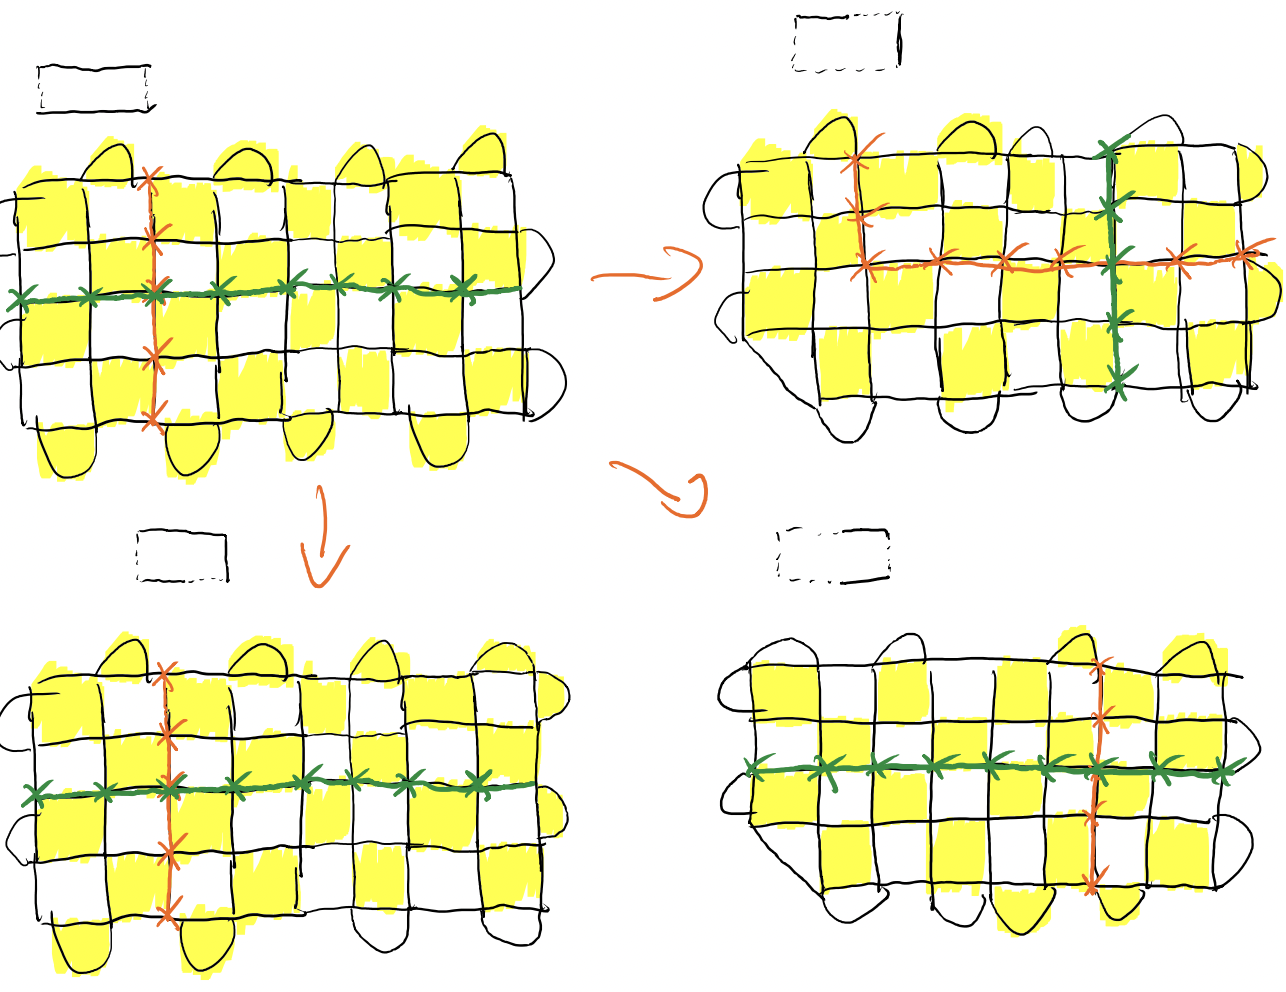
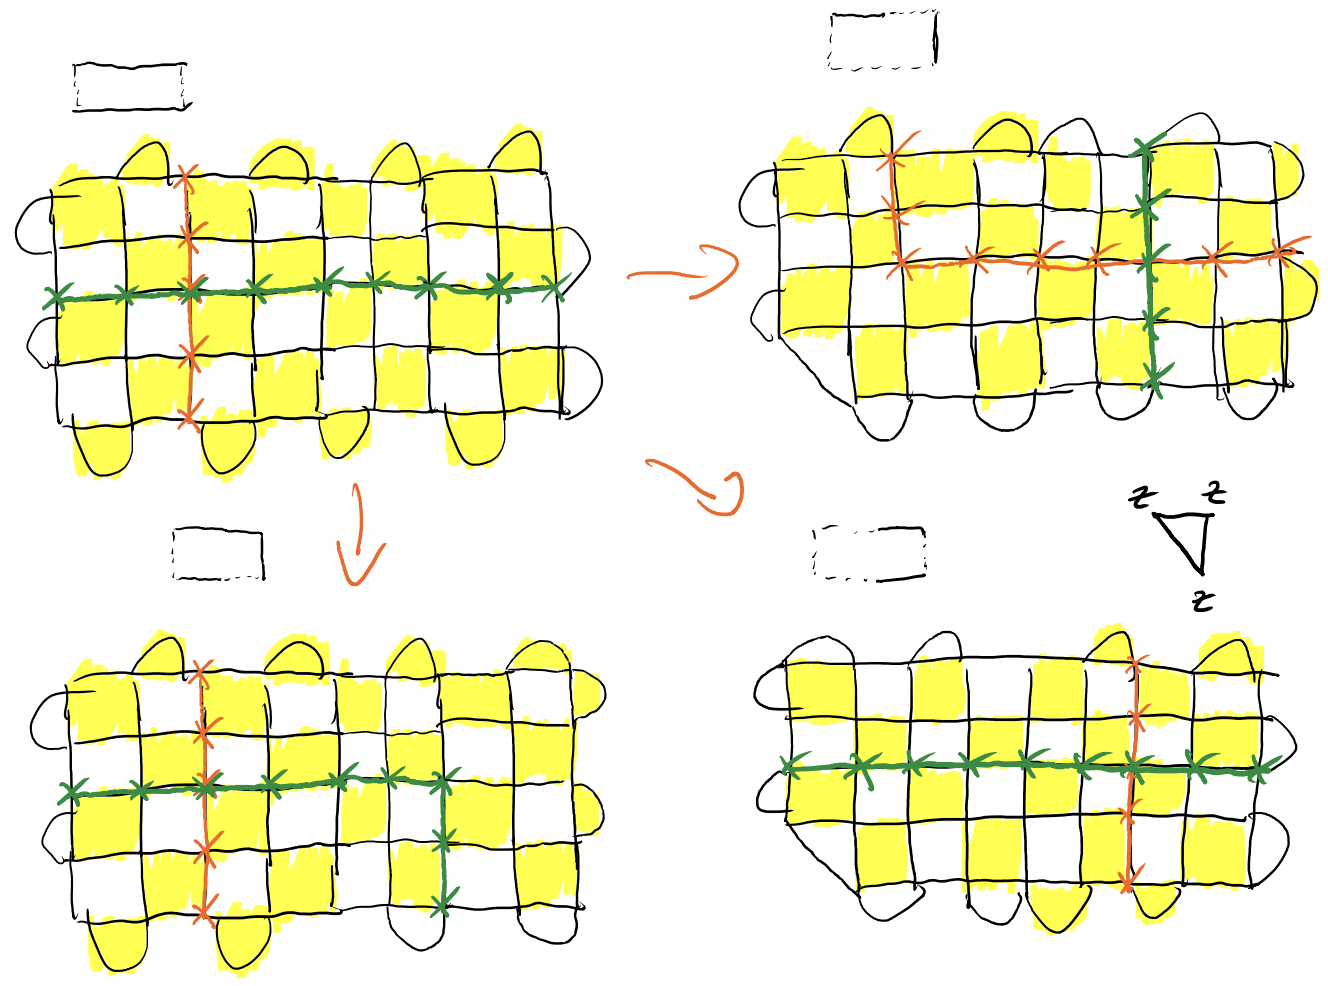
code review

diff --git a/demonstrations_v2/tutorial_lattice_surgery/demo.py b/demonstrations_v2/tutorial_lattice_surgery/demo.py
@@ -1,12 +1,13 @@
 r"""
 
-Lattice Surgery
-===============
+Introducing Lattice Surgery
+===========================
 
-Lattice surgery is a way to fault-tolerantly perform operations on two-dimensional platforms
-with local physical connectivity. It enables lower spatial overheads for topological quantum
-error correction codes such as surface codes or color codes by introducing discontinuous code operations: lattice merging and splitting.
-In this demo, we are going to see how lattice merging and splitting
+Lattice surgery is a way to fault-tolerantly perform operations on two-dimensional quantum computers
+with local physical connectivity. Its introduction improved spatial overheads in topological quantum
+error correction codes such as surface codes by replacing continuous code operations 
+with discontinuous ones: lattice spliting and merging.
+In this demo, we are going to see how these operations
 enable parity measurements of arbitrary Pauli operators, which unlock universal fault
 tolerant quantum computing.
 
@@ -15,11 +16,15 @@ tolerant quantum computing.
     :width: 50%
     :target: javascript:void(0)
 
+For self-consistency, we are going to briefly recap the basic concepts of the surface code and explain how `Pauli product measurements <https://pennylane.ai/compilation/pauli-product-measurement>`__ are the sufficient 
+for universal computing. We are then going to explain how to perform such 
+`homological measurements <https://arxiv.org/abs/2410.02753>`__ using lattice splitting and merging.
+
 Surface code quantum computing
 ------------------------------
 
-Topological quantum error correction codes like the surface code [#surfacecode]_ protect quantum information of logical qubits by
-ensuring the underlying physical qubits are kept in the code space, defined by the :math:`+1` eigenspace of a set of stabilizer measurements.
+Topological quantum error correction codes like the surface code [#surfacecode]_ protect quantum information stored in logical qubits by
+ensuring the underlying physical qubits are kept in the code space, defined by the :math:`+1` eigenspace of a set of :doc:`stabilizer measurements <demos/tutorial_stabilizer_codes>`.
 A logical qubit is then represented by a patch of physical qubits, called data qubits, on a square lattice like so:
 
 .. figure:: ../_static/demonstration_assets/lattice_surgery/surface_code_qubit1.png
@@ -32,7 +37,7 @@ On yellow surfaces, we continually measure X stabilizers, which simply are the :
 on the four data qubits of the corners. Similarly, Z stabilizers are measured on white surfaces. 
 These stabilizer measurements are not performed directly on the data qubits, but via another kind of qubit that sits at the center of each square surface
 as well as the center of each arch (not shown here, see below). 
-These extra qubits are sometimes called measurement qubits or syndrome qubits and the measurement is performed by entangling the data qubits with the syndrome qubit and measuring it in the corresponding basis (see Fig. 1 in [#surfacecode]_).
+These extra qubits are sometimes called measurement qubits or syndrome qubits and the measurement is performed by entangling the data qubits with the syndrome qubit and measuring it (see Fig. 1 in [#surfacecode]_).
 
 Note that this representation of a qubit is in the so-called rotated surface code due to its :math:`45^\circ` rotation with respect to the original planar surface code.
 Here we indicate the underlying data and syndrome qubits with black and red dots, respectively. 
@@ -44,9 +49,9 @@ nearest neighbor qubits are physically connected and can perform universal gates
     :width: 50%
     :target: javascript:void(0)
 
-One such :math:`d \times d` patch represents a logical qubit. An important feature is that we sides with X arches and Z arches,
+One such :math:`d \times d` patch represents a logical qubit. An important feature is that we have sides with X arches and Z arches,
 as this enables the error-corrected encoding of the qubit. Note that the edge with X arches is called a Z edge, because measuring along that edge
-corresponds to a logical Z operator, i.e. connecting the two sides with Z arches (more on logical X and Z operators that define the qubit further below).
+corresponds to a logical Z operator (more on logical X and Z operators that define the qubit further below).
 
 We are interested in performing `logical` operations like a CNOT gate between two such patches that represent a logical qubit, each.
 The most straight-forward way to compute a logical CNOT is by performing physical CNOT gates between the data qubits
@@ -64,8 +69,8 @@ a concept commonly encountered in algebraic topology.
 In this setting, qubits are encoded by defects in the code, and operations via continuous deformations of the code.
 However, defect based qubits suffer from requiring significantly more physical qubits per logical qubit.
 
-This is where lattice surgery [#latticesurgery]_ comes into play, as it has been shown to enable error-corrected logical operations
-with significantly lower space resources with comparable time requirements [#Fowler]_ [#Litinski]_ [#Chamberland]_. The fundamental operations in lattice
+This is where lattice surgery [#latticesurgery]_ comes into play: It has been shown to enable error-corrected logical operations
+with significantly lower space overhead and comparable time requirements [#Fowler]_ [#Litinski]_ [#Chamberland]_. The fundamental operations in lattice
 surgery are discontinuous deformations of the lattice, in particular lattice merging and lattice splitting, common in geometric topology.
 
 Universal quantum computing with Pauli product measurements
@@ -84,8 +89,8 @@ The gist of it is that `Pauli product rotations <https://pennylane.ai/compilatio
     :width: 50%
     :target: javascript:void(0)
 
-for arbitrary :class:`Pauli words <~.pauli.PauliWord>` :math:`P`
-with Clifford and non-Clifford angles :math:`\theta \in \{k \tfrac{\pi}{4} | k \in \mathbb{Z} \}` cover the `(Clifford + T) <https://pennylane.ai/compilation/clifford-t-gate-set>`__ gate set, and thus allow for universal quantum computing.
+for arbitrary Pauli words :math:`P`
+with Clifford and non-Clifford angles :math:`\theta \in \{(2k+1) \tfrac{\pi}{4} | k \in \mathbb{Z} \}` reproduce the `(Clifford + T) <https://pennylane.ai/compilation/clifford-t-gate-set>`__ gate set, and thus allow for universal quantum computing.
 These PPRs can be directly executed using PPMs in the following way, so all we need to show is that the lattice surgery based quantum computer can perform arbitrary PPMs. Typically, this involves an auxiliary qubit in a specific state.
 Clifford angles that are odd multiples of :math:`\frac{\pi}{2}` can be performed with an auxiliary qubit in :math:`|0\rangle` like so:
 
@@ -95,7 +100,7 @@ Clifford angles that are odd multiples of :math:`\frac{\pi}{2}` can be performed
     :target: javascript:void(0)
 
 We use the color coding from [#Litinski]_, where orange boxes correspond to Clifford gates, 
-gray boxes to Pauli operators (as :math:`e^{-i \tfrac{(2k+1)\pi}{2}P} \propto P`), green boxes to non-Clifford gates, and
+gray boxes to Pauli operators (note that :math:`\exp\left(-i \tfrac{(2k+1)\pi}{2}P\right) \propto P`), green boxes to non-Clifford gates, and
 blue boxes to measurements.
 Non-clifford PPRs can be realized using a magic resource state in the following way:
 
@@ -113,7 +118,7 @@ For our purposes here it suffices to note that realizing PPRs via PPMs is possib
 Single qubit measurements
 -------------------------
 
-Before we get to the meat of performing arbitrary PPMs with lattice surgery, let us recal how to perform single qubit measurements (and thus single qubit gates).
+Before we get to the meat of performing arbitrary PPMs with lattice surgery, let us recall how to perform single qubit measurements (and thus single qubit gates).
 In the orientation we previously used, logical operators :math:`Z_L` and :math:`X_L` of the logical qubit are defined by a horizontal line of :math:`Z` and vertical line of :math:`X` measurements
 on the data qubits:
 
@@ -127,7 +132,7 @@ Any such operator represents the logical operators :math:`Z_L` and :math:`X_L`. 
 leads to the somewhat confusing scenario where the edge with Z arches is called an X edge, and vice versa.
 
 Because we only care about the homology of the measurement
-(i.e., that it connects the two opposite edges), which is why this is also called *homological measurement*.
+(i.e., that it in the same equivalence class of the corresponding X and Z edges), this is also called a *homological measurement*.
 It does not really matter which operator of the equivalence class we measure, and in principle we have access to any of them without extra effort because they are related to each other via stabilizer measurements, 
 which we anyway perform during the continually performed error correction cycles.
 So for the following, we will just consider those that are convenient for illustrational purposes.
@@ -147,22 +152,22 @@ Measuring (and applying, same same really) logical :math:`Y_L` operators is stil
 Arbitrary Pauli product measurements via lattice merging and splitting
 ----------------------------------------------------------------------
 
-We now want to show how to perform the two fundamental operations of measuring :math:`Z_L \otimes Z_L` and :math:`X_L \otimes X_L` between two surface code qubits via lattice surgery.
-The operation is fairly simple in principle: merge the two patches, and split them again. We just need to make sure that the qubits are facing each other with the correct edges,
-and use the correct state preparation and measurements for the merging and splitting operations, respectively.
+We now want to show how to perform the two fundamental operations of measuring 
+:math:`Z_L \otimes Z_L` and :math:`X_L \otimes X_L` between two surface code qubits via lattice surgery.
+The operation is fairly simple in principle: merge the two patches, and split them again. 
+We just need to make sure that the qubits are connected along the corresponding edges.
 
-Let us walk through the process of measuring :math:`X_L \otimes X_L` first. 
-Conceptually, it is rather simple: we merge and split two qubits on their X edges.
-For simplicity, let us assume that the two qubits are already facing each other on their X edges. 
-For lattice merging, we start by preparing the intermediate data qubits in :math:`|0\rangle`.
+In particular, for measuring :math:`X_L \otimes X_L`, we merge and split two qubits on their X edges.
+For simplicity, let us assume that the two qubits are already facing each other on their X edges with a column of
+unused data qubits separating them. In principle we can have a larger area separating them, we just need to be able to make the boundaries match.
+The lattice merging is started by preparing the intermediate data qubits in :math:`|0\rangle`.
 
 .. figure:: ../_static/demonstration_assets/lattice_surgery/XX1.png
     :align: center
     :width: 50%
     :target: javascript:void(0)
 
-Note that here we left just a single column of data qubits between the two patches, but in principle we can have a larger area, as long as we can make the boundaries match.
-The actual merging is then done by simply by including the intermediate X and Z stabilizers in the error correction cycles.
+The actual merging is then done simply by including the intermediate X and Z stabilizers in the error correction cycles.
 
 .. figure:: ../_static/demonstration_assets/lattice_surgery/XX2.png
     :align: center
@@ -170,7 +175,6 @@ The actual merging is then done by simply by including the intermediate X and Z 
     :target: javascript:void(0)
 
 Conveniently, the product of all stabilizers between the two logical :math:`X_L` operators, indicated by the red dots below, corresponds to the eigenvalue of :math:`X_L \otimes X_L`.
-In case any of the two :math:`X_L` operators were carrying a sign, we need to make sure to include those in the product.
 
 .. figure:: ../_static/demonstration_assets/lattice_surgery/XX3.png
     :align: center
@@ -189,7 +193,7 @@ In case the green Z measurement in the middle yields a negative sign,
 we need to assign it to one of the two logical :math:`Z_L` operators, 
 on top of the product of the sign of the original two :math:`Z_L` operators we originally started from.
 
-Measuring :math:`Z_L \otimes Z_L` works in the same fashion, but with reversed roles: We Z edges towards each other, initialize in :math:`|+\rangle` to merge and measure in :math:`X` to split again:
+Measuring :math:`Z_L \otimes Z_L` works in the same fashion, but with reversed roles: We connect the Z edges with each other, initialize in :math:`|+\rangle` to merge and measure in :math:`X` to split again:
 
 .. figure:: ../_static/demonstration_assets/lattice_surgery/ZZ.png
     :align: center
@@ -197,6 +201,7 @@ Measuring :math:`Z_L \otimes Z_L` works in the same fashion, but with reversed r
     :target: javascript:void(0)
 
 The rules for arbitrary products like, e.g., :math:`X_L \otimes Z_L` are relatively simple: Merge and split the qubit patches on the corresponding edges and keep track of any signs you pick up on the way.
+Note that we can also rotate patches to get the correct orientation, as we will see below.
 
 Y measurements
 --------------
@@ -231,7 +236,9 @@ Recall from earlier that green and red lines merely indicate representatives of 
 
 Extending the qubit along the X edge works similarly, but moving vertically, initializing in :math:`|+\rangle` and measuing :math:`X` on the data qubits.
 
-We can also move (or rotate?) the type of the edges within :math:`d` error correction code cycles. This makes most sense on an already extended qubit because this way we do not change the code distance.
+We can also move (or rotate?) the type of the edges within :math:`d` error correction code cycles.
+This makes most sense on an already extended qubit because this way we do not change the code distance.
+As we can see, the bulk of the qubit is untouched and all that is changed is the set of stabilizers we measure on the boundaries (for :math:`d` code cycles to take effect).
 
 .. figure:: ../_static/demonstration_assets/lattice_surgery/corner_moving.png
     :align: center
@@ -240,7 +247,8 @@ We can also move (or rotate?) the type of the edges within :math:`d` error corre
   
 Here we show an extended single qubit patch and three example re-orientations of the type of edges.
 The smaller images are guides to the eye to indicate the settings, with X edges as solid lines and Z edges as dotted lines (i.e. the same as the logical measurements moved to the edges).
-Note that the important property is for neighboring X and Z edges to overlap on two data qubits for the corresponding stabilizers to commute.
+Note that the important property is for neighboring X and Z edges to overlap on two data qubits for the corresponding stabilizers to commute. 
+This is why the right patches introduce the triangle-shaped stabiliers of three :math:`Z` operators.
 
 Finally, to measure $Y$ we perform the following procedure:
 
@@ -252,8 +260,9 @@ Finally, to measure $Y$ we perform the following procedure:
 Here, one extends and orients a qubit such that it has both :math:`X` and :math:`Z` edges on the same side. 
 At the same time, an auxiliary qubit is initialized in :math:`|0\rangle` parallel to our extended qubit.
 This is intentionally done such that there is a mismatch between the boundary stabilizers which introduces a so-called twist defect, highlighted in purple.
-When we perform lattice merging the two qubits, we obtain new stabilizers, some of which are mixed Z and X!
-This is fine because they still commute with all other stabilizers. This can be shown by checking that :math:`[ZZ, XY] = [YZ,XX] = [XZ, ZX] = 0`.
+When we perform lattice merging between the two qubits, we obtain new stabilizers, some of which are mixed Z and X!
+This is because they still need to commute with all other stabilizers. That this is indeed the case can be shown by checking that 
+:math:`[ZZ, XY] = [YZ,XX] = [XZ, ZX] = 0`.
 
 Some of these are trivial in the sense that they are simply the product of the already-measured stabilizers from each of the qubits. 
 The non-trivial new ones are highlighted in red and correspond to the measurement of :math:`Y \otimes Z` of the joint state :math:`|\psi\rangle \otimes |0\rangle`
